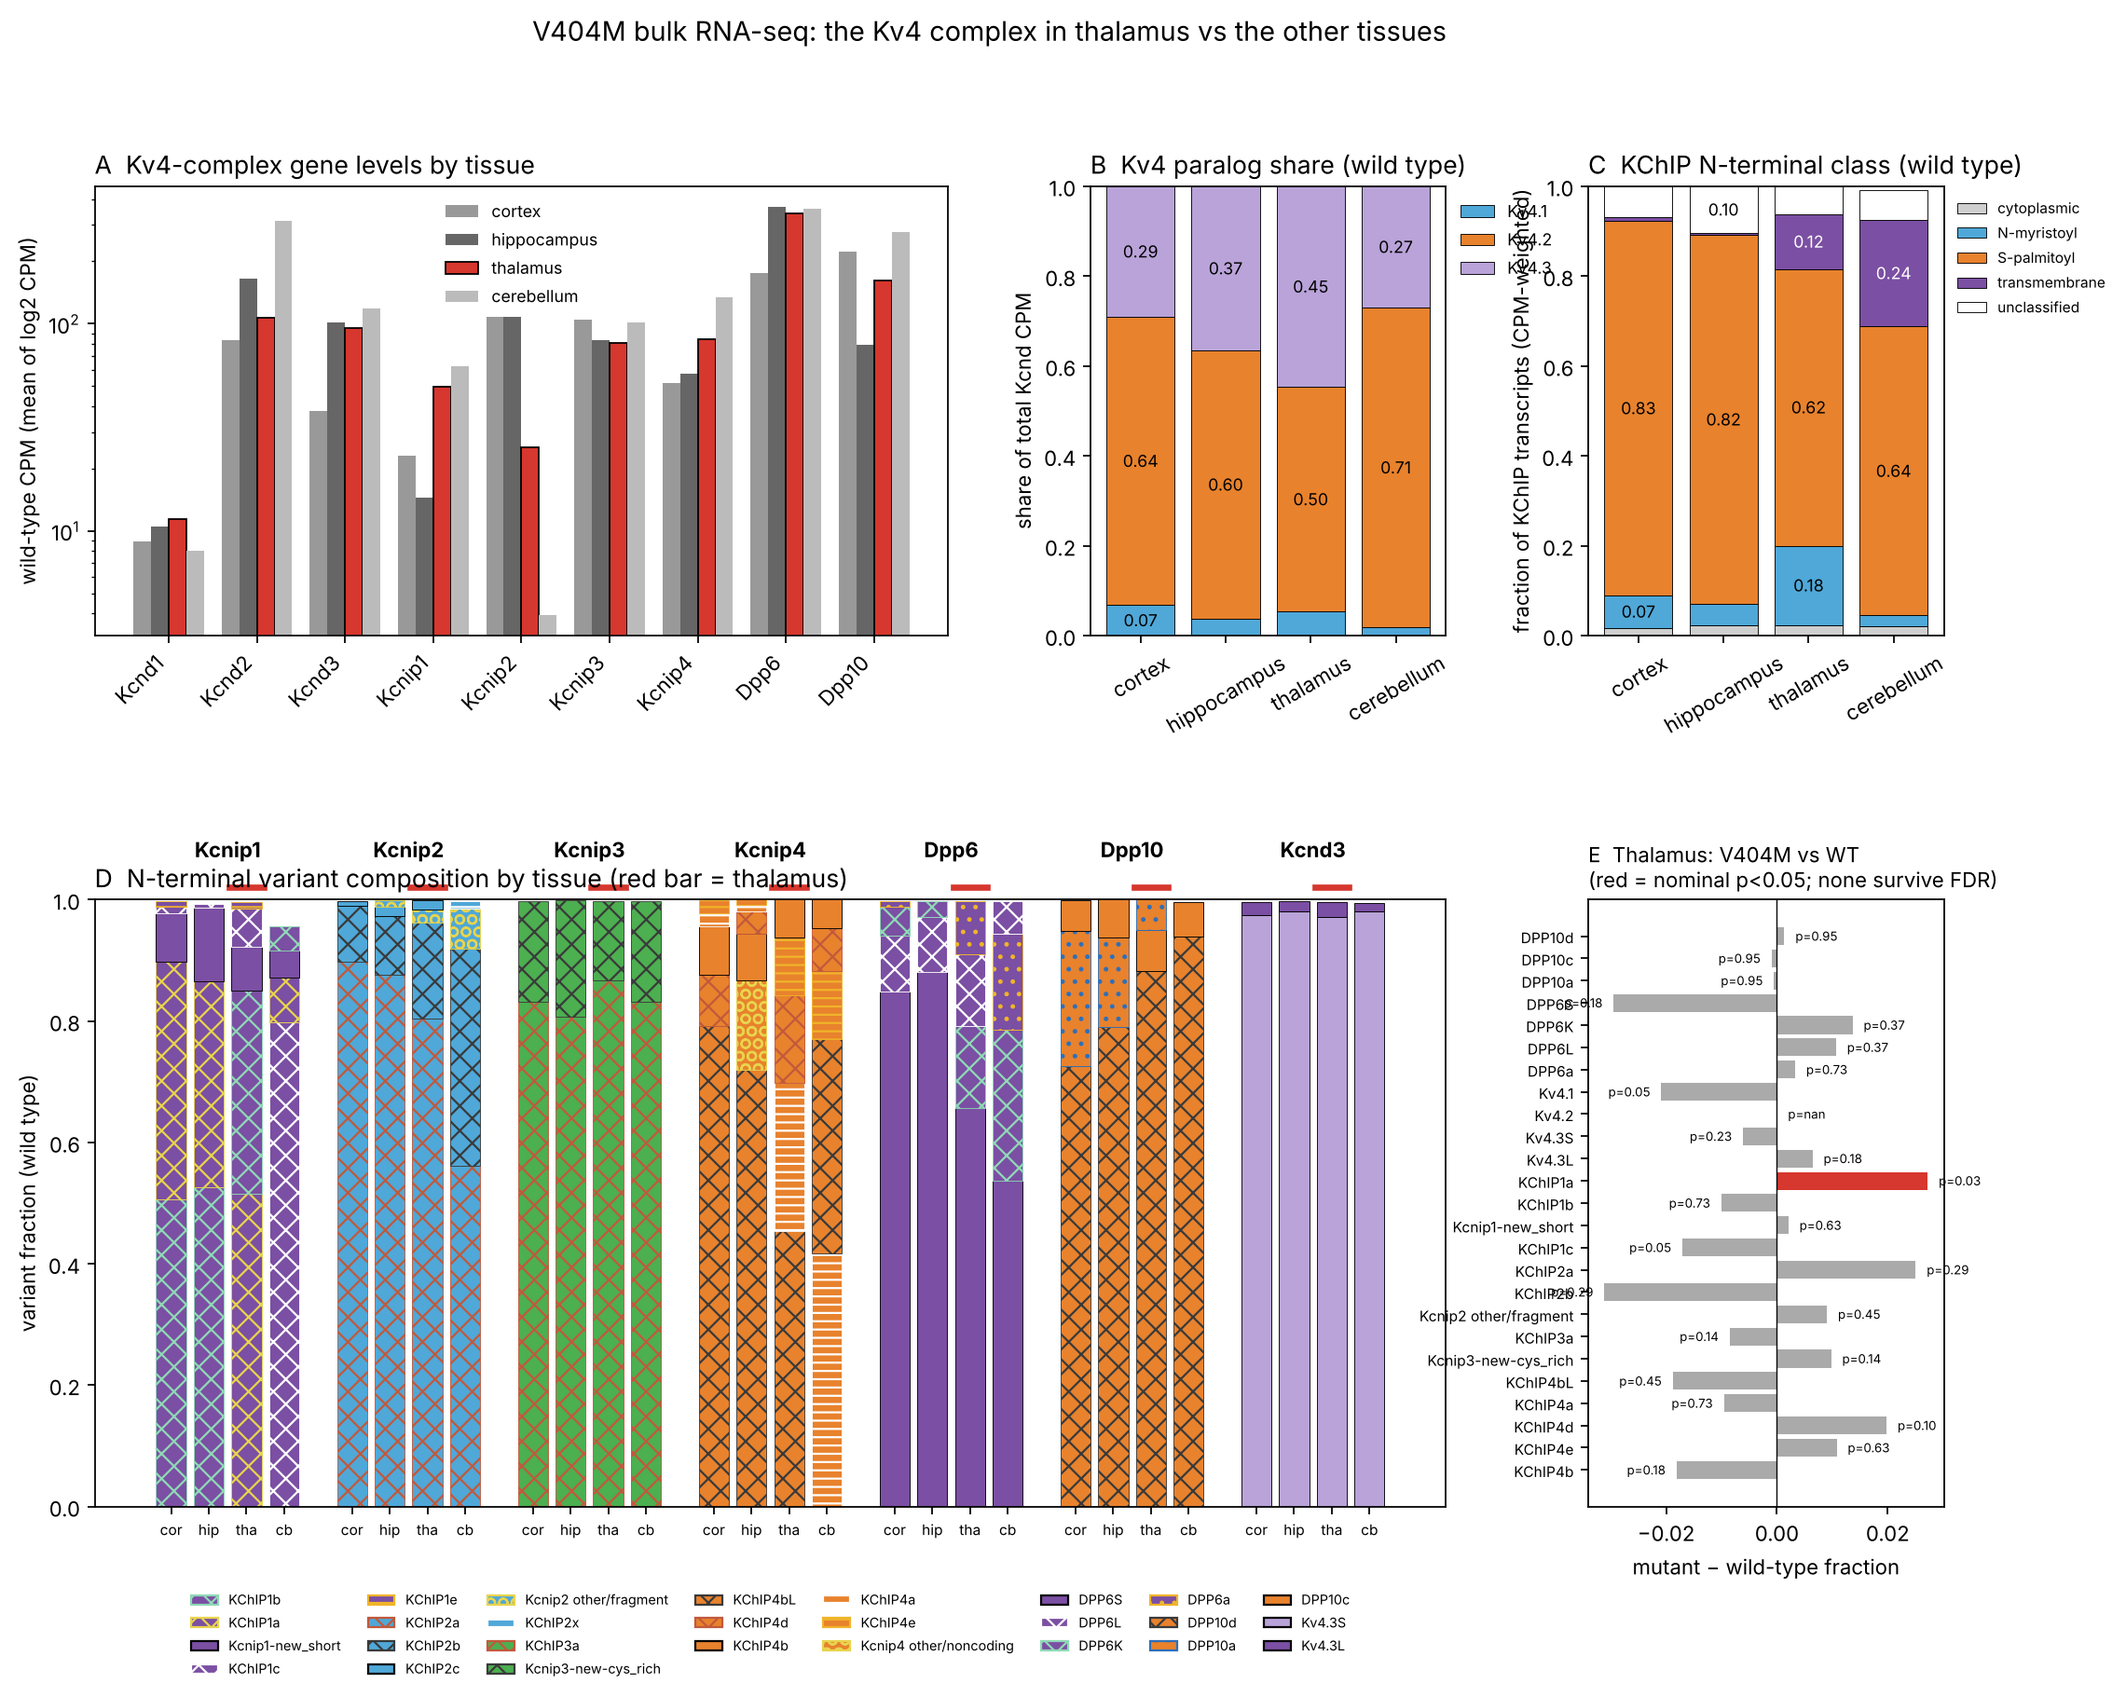
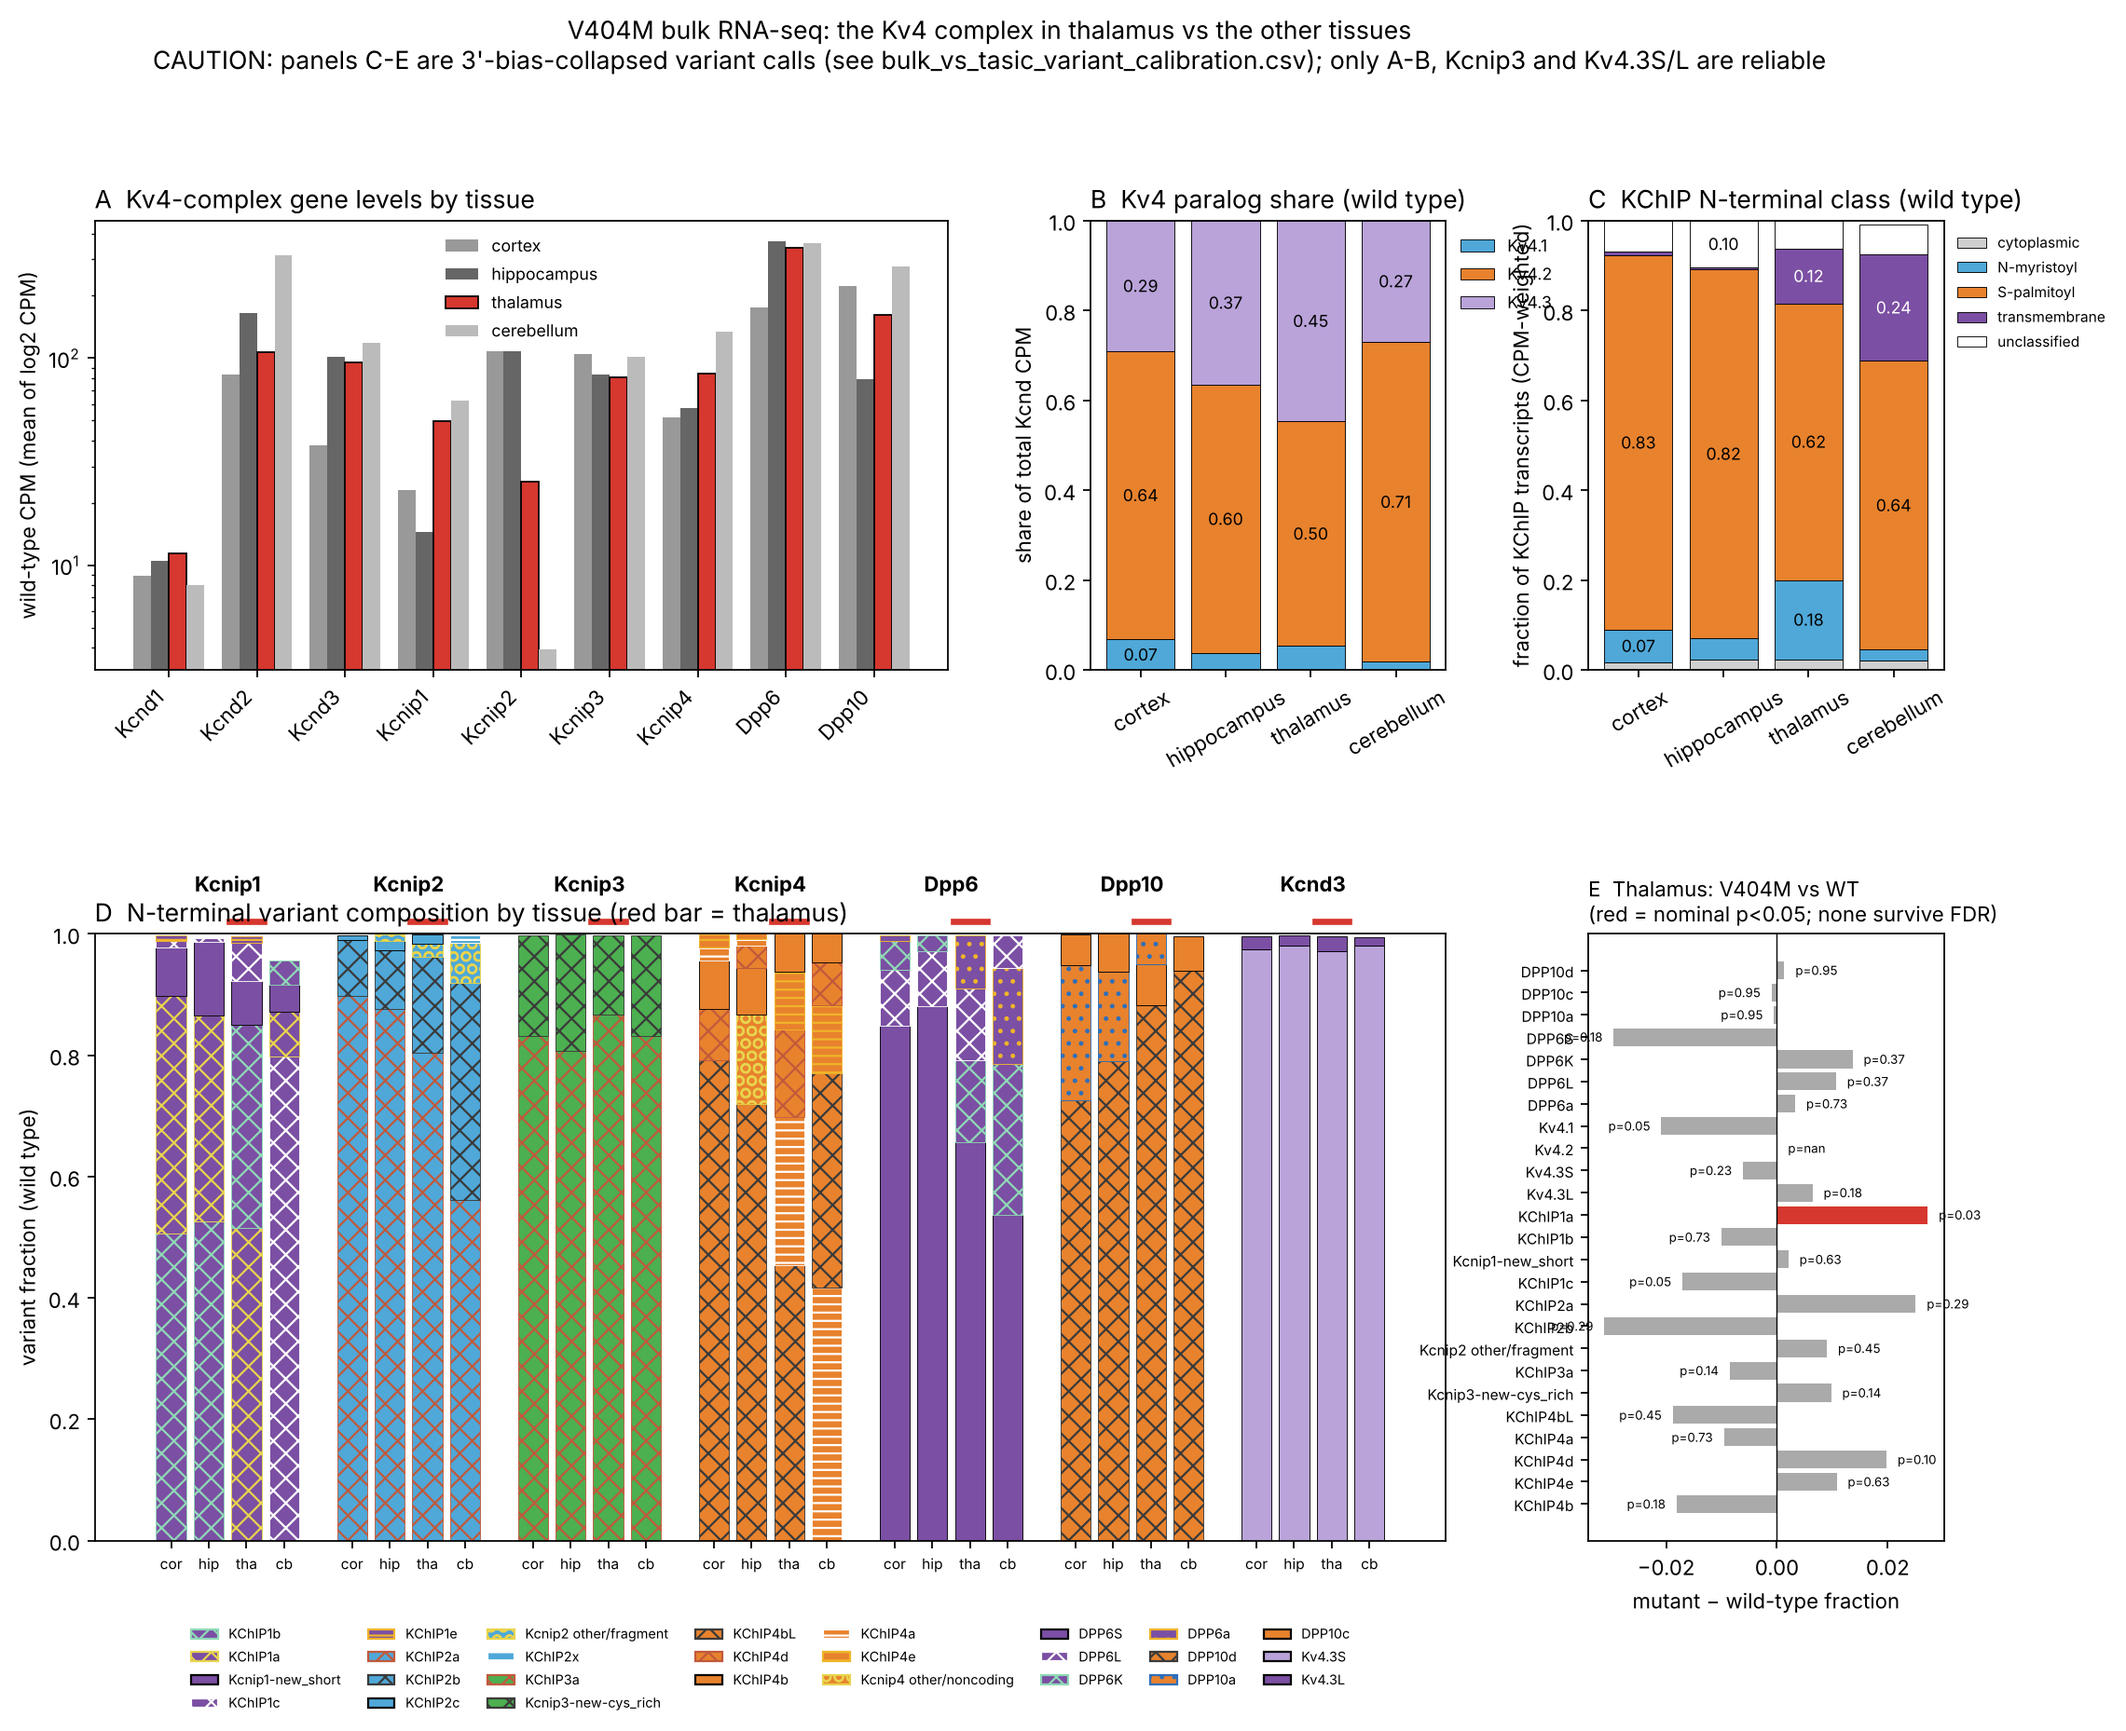
Bulk variant calls vs Tasic 2016: KChIP panel also collapses under 3' bias; withdraw thalamus bulk variant claims
- scripts/bulk_vs_tasic_variants.py + tables/bulk_vs_tasic_variant_calibration.csv
- caution banner on thalamus_bulk_kv4_complex.png; README notes; only gene-level, Kcnip3 and Kv4.3S/L retained

Claude-Session: https://claude.ai/code/session_01LyLqBU1JBtmoS9Pe1mdPxR

diff --git a/scripts/bulk_vs_tasic_variants.py b/scripts/bulk_vs_tasic_variants.py
@@ -1,0 +1,54 @@
+#!/usr/bin/env python3
+"""Empirical calibration of the V404M bulk variant calls against full-length single-cell data.
+
+Pools the Tasic 2016 (GSE71585, V1 neurons, full-length SMART-seq) per-type variant reads into a cortical
+pseudo-bulk and sets it beside the wild-type cortex fractions from the 3'-biased polyA bulk libraries.
+Variants that the bulk pipeline under-calls by more than a factor of two against the pseudo-bulk are flagged
+as collapsed; those within 20% relative are flagged as reliable.
+
+The disagreement is the 3' coverage collapse already shown by simulation for the DPP panel
+(pipeline/simulate_variant_calibration.py): N-terminal variants distinguished only by 5' exons default to one
+sink isoform per gene. This script extends the check to the KChIP panel without rerunning the simulator.
+
+Usage: python3 scripts/bulk_vs_tasic_variants.py [TABLES_DIR] [OUT_DIR]
+Writes OUT/tables/bulk_vs_tasic_variant_calibration.csv
+"""
+import os, sys
+import numpy as np, pandas as pd
+
+TABLES = sys.argv[1] if len(sys.argv) > 1 else 'tables'
+OUT = sys.argv[2] if len(sys.argv) > 2 else '.'
+os.makedirs(f'{OUT}/tables', exist_ok=True)
+
+t = pd.read_csv(f'{TABLES}/ctx_variant_frac_of_gene_by_type.csv')
+t = t[t.cls != 'NonN']
+pool = t.groupby(['gene', 'vclass']).reads.sum(); pool = pool / pool.groupby(level=0).transform('sum')
+glut = t[t.cls == 'Glut'].groupby(['gene', 'vclass']).reads.sum(); glut = glut / glut.groupby(level=0).transform('sum')
+gaba = t[t.cls == 'GABA'].groupby(['gene', 'vclass']).reads.sum(); gaba = gaba / gaba.groupby(level=0).transform('sum')
+b = pd.read_csv(f'{TABLES}/v404m_variant_fracs.csv')
+bulk = b[b.tissue == 'cortex'].set_index(['gene', 'vclass'])
+
+d = pd.DataFrame({'tasic_pseudobulk': pool, 'tasic_glut': glut, 'tasic_gaba': gaba,
+                  'bulk_ctx_wt': bulk.frac_wt, 'bulk_ctx_mut': bulk.frac_mut}).fillna(0.0)
+d = d[d[['tasic_pseudobulk', 'bulk_ctx_wt']].max(axis=1) > 0.01].copy()
+d['ratio_bulk_over_tasic'] = d.bulk_ctx_wt / d.tasic_pseudobulk.replace(0, np.nan)
+
+
+def verdict(r):
+    if r.tasic_pseudobulk < 0.02 and r.bulk_ctx_wt < 0.02:
+        return 'minor in both'
+    if r.ratio_bulk_over_tasic < 0.5:
+        return 'COLLAPSED in bulk (under-called >2x)'
+    if r.ratio_bulk_over_tasic > 2.0:
+        return 'SINK in bulk (over-called >2x)'
+    if abs(r.ratio_bulk_over_tasic - 1) <= 0.2:
+        return 'reliable'
+    return 'shifted (within 2x)'
+
+
+d['verdict'] = d.apply(verdict, axis=1)
+d = d.reset_index().sort_values(['gene', 'tasic_pseudobulk'], ascending=[True, False])
+d.to_csv(f'{OUT}/tables/bulk_vs_tasic_variant_calibration.csv', index=False)
+pd.set_option('display.width', 220)
+print(d.round(3).to_string(index=False))
+print('\nBulk variant calls usable only for:', ', '.join(d[d.verdict == 'reliable'].vclass))

diff --git a/scripts/v404m_thalamus_view.py b/scripts/v404m_thalamus_view.py
@@ -9,6 +9,11 @@ tables/v404m_variant_fracs.csv) to answer, for the thalamus specifically:
      differ from cortex/hippocampus (the tissues already surveyed at single-cell resolution)?
   3. Does the heterozygous V404M knock-in change any of this in thalamus (compensation test)?
 
+CAVEAT (2026-11-09): the bulk libraries are 3'-biased polyA and collapse 5'-distinguished N-terminal variants
+into one sink isoform per gene (DPP shown by simulation; KChIP shown empirically by scripts/bulk_vs_tasic_variants.py:
+KChIP2x 0.77 in Tasic 2016 cortex vs 0.001 here). Panels C-E and thalamus_bulk_kchip_classes.csv are therefore
+NOT interpretable as composition; only Kcnip3 variants, Kv4.3S/L and the gene-level panels A-B are trustworthy.
+
 Membrane-association classes of the KChIP N-termini follow the lab's 2015 review, extended with
 KChIP1e as a transmembrane variant (AlphaFold). Variants not in the published scheme
 (Kcnip1-new_short, Kcnip3-new-cys_rich, 'other/fragment') are left as 'unclassified'.
@@ -176,7 +181,8 @@ ax.set_xlabel('mutant − wild-type fraction'); ax.set_title('E  Thalamus: V404M
 for i, (d, p) in enumerate(zip(th['diff'], th.p)):
     ax.text(d + (0.002 if d >= 0 else -0.002), i, f'p={p:.2f}', va='center', ha='left' if d >= 0 else 'right', fontsize=6)
 
-fig.suptitle('V404M bulk RNA-seq: the Kv4 complex in thalamus vs the other tissues', fontsize=13, y=0.98)
+fig.suptitle('V404M bulk RNA-seq: the Kv4 complex in thalamus vs the other tissues\n'
+             'CAUTION: panels C-E are 3\'-bias-collapsed variant calls (see bulk_vs_tasic_variant_calibration.csv); only A-B, Kcnip3 and Kv4.3S/L are reliable', fontsize=12, y=1.0)
 fig.savefig(f'{OUT}/figures/thalamus_bulk_kv4_complex.png', dpi=160, bbox_inches='tight')
 print(summary.round(3).T.to_string())
 print()

diff --git a/thalamus/README.md b/thalamus/README.md
@@ -52,6 +52,10 @@ log2(CPM+1), which is what the scripts assume when they back-transform to CPM fo
 - Clusters of `151 TH Prkcd Grin2c Glut` (the big sensory/motor relay subclass) are resolved to nuclei only
   through the THALMANAC annotation table; unannotated ones are reported as "relay (nucleus unresolved)".
 - Tier 3 result (bulk): thalamus Kcnd2 share of Kv4 = 0.50 (lowest of the four tissues; cortex 0.64,
-  cerebellum 0.71); 12% transmembrane KChIP (KChIP4a/4e) and 18% myristoylated KChIP1a/b, both far above cortex
-  and hippocampus; DPP6K 13%, DPP6a 9%. No V404M-induced change survives FDR. Which cell type carries the
-  TM-KChIP / Kcnd3-rich profile is what tier 1 should tell us.
+  cerebellum 0.71), Kcnd3 0.45; no V404M-induced gene-level change. **The bulk N-terminal variant fractions
+  (panels C-E of thalamus_bulk_kv4_complex.png) are NOT reliable**: the 3'-biased polyA libraries collapse
+  5'-distinguished variants into one sink per gene. Shown by simulation for DPP (lab_db write-up) and now
+  empirically for KChIP against the Tasic 2016 pseudo-bulk (scripts/bulk_vs_tasic_variants.py,
+  tables/bulk_vs_tasic_variant_calibration.csv): KChIP2x 0.77 -> 0.001, KChIP1c 0.19 -> 0.01, DPP6a 0.53 -> 0.01.
+  Only Kcnip3 (3a / cys-rich), Kv4.3S/L and the gene-level numbers survive. Thalamic variant composition
+  therefore has to come from tier 2 (full-length data), not from the bulk.
